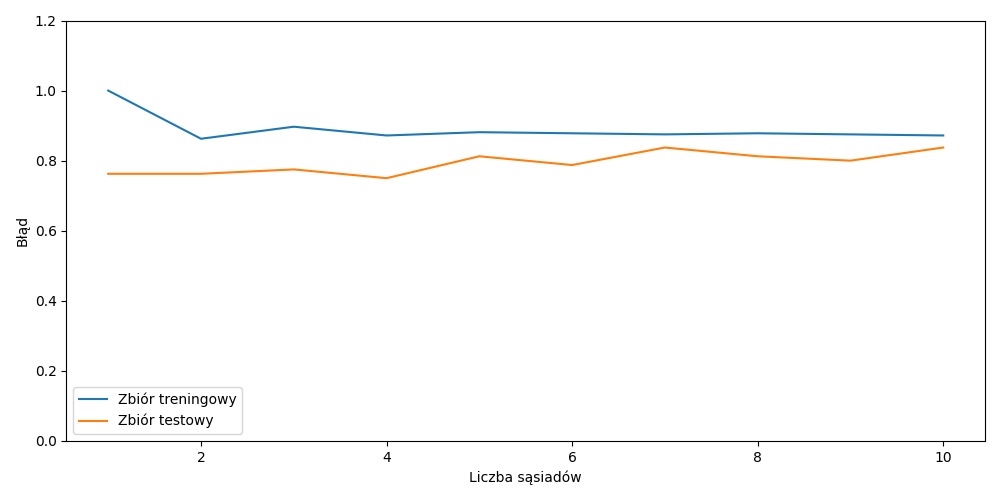
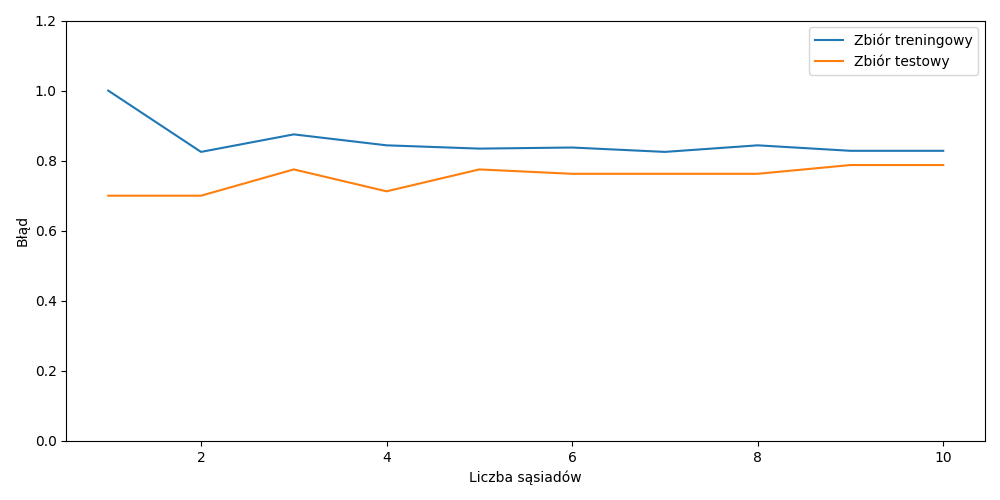
refactor code

diff --git a/tests/DecisionBoundaryTest.py b/tests/DecisionBoundaryTest.py
@@ -1,11 +1,9 @@
 import unittest
+import warnings
 import os, sys
-import numpy as np
-from sklearn.svm import SVC
 from sklearn.datasets import make_classification
 from sklearn.neighbors import KNeighborsClassifier
 from sklearn.datasets import load_iris
-import warnings
 sys.path.append('../ensemble')
 from Bagging import BaggingClassifier
 from RandomSubspaceEnsemble import RandomSubspaceEnsemble
@@ -13,10 +11,10 @@ from RandomSamplePartition import RandomSamplePartition
 sys.path.append('../analysis')
 from DecisionBoundary2 import DecisionBoundary
 
-"""Test e2e Decision Boundary class"""
-
 # Ignore warnings
 warnings.filterwarnings("ignore")
+
+"""Test e2e Decision Boundary class"""
 
 class Test(unittest.TestCase):
     def prepare(self):

diff --git a/helpers/TrainingvsValidationError.py b/helpers/TrainingvsValidationError.py
@@ -28,8 +28,8 @@ test_errors = []
 for n in n_neighbors:
     clf.set_params(n_neighbors=int(n))
     clf.fit(X_train, y_train)
-    train_errors.append(clf.score(X_train, y_train))
-    test_errors.append(clf.score(X_test, y_test))
+    train_errors.append(1-clf.score(X_train, y_train))
+    test_errors.append(1-clf.score(X_test, y_test))
 
 i_alpha_optim = np.argmax(test_errors)
 alpha_optim = n_neighbors[i_alpha_optim]
@@ -39,7 +39,7 @@ plt.subplots(1,1,figsize=(10,5))
 plt.plot(n_neighbors, train_errors, label="Zbiór treningowy")
 plt.plot(n_neighbors, test_errors, label="Zbiór testowy")
 
-plt.legend(loc="lower left")
+plt.legend(loc="upper right")
 plt.ylim([0, 1.2])
 plt.xlabel("Liczba sąsiadów")
 plt.ylabel("Błąd")

diff --git a/ensemble/Bagging.py b/ensemble/Bagging.py
@@ -3,7 +3,7 @@ from sklearn.ensemble import BaseEnsemble
 from sklearn.tree import DecisionTreeClassifier
 from sklearn.base import ClassifierMixin, clone 
 from sklearn.utils.validation import check_array, check_is_fitted, check_X_y
-from scipy.stats import mode 
+from scipy.stats import mode
 
 """Bagging Classifier"""
 
@@ -59,6 +59,6 @@ class BaggingClassifier(BaseEnsemble, ClassifierMixin):
     def ensemble_support_matrix(self, X):
         """Support matrix"""
         probas_ = []
-        for i, member_clf in enumerate(self.ensemble_):
+        for _, member_clf in enumerate(self.ensemble_):
             probas_.append(member_clf.predict_proba(X))
         return np.array(probas_)

diff --git a/evaluation/Evaluator.py b/evaluation/Evaluator.py
@@ -1,5 +1,6 @@
 import numpy as np
 import os, sys
+import warnings
 from sklearn.metrics import accuracy_score
 from sklearn.model_selection import RepeatedStratifiedKFold
 from sklearn.ensemble import BaggingClassifier as OBgg
@@ -30,6 +31,9 @@ class Evaluator():
         """
         Evaluation function
         """
+        # Ignore warnings
+        warnings.filterwarnings("ignore")
+        
         self.clfs = clfs
         rskf = rskf = RepeatedStratifiedKFold(n_splits=self.n_splits, n_repeats=self.n_repeats, random_state = self.random_state)
         self.scores = np.zeros((len(self.datasets), self.n_splits*self.n_repeats, len(self.clfs), len(self.metrics)))

diff --git a/tests/EvaluationTest.py b/tests/EvaluationTest.py
@@ -1,17 +1,18 @@
 import sys
+import warnings
 from strlearn.metrics import balanced_accuracy_score, recall
 from sklearn.neural_network import MLPClassifier
 sys.path.append('../ensemble')
-import warnings
 from Bagging import BaggingClassifier
 sys.path.append('../evaluation')
 from Evaluator import Evaluator
 from StatisticTest import StatisticTest
 
-"""Test e2e experiment evaluation"""
-
 # Ignore warnings
 warnings.filterwarnings("ignore")
+
+"""Test e2e experiment evaluation"""
+
 
 def main():
     # Classifiers
@@ -22,7 +23,7 @@ def main():
     }
 
     # Datasets
-    datasets = ['glass']
+    datasets = ['ecoli2']
 
     # Metrics
     metrics = {

diff --git a/tests/EnsembleTest.py b/tests/EnsembleTest.py
@@ -1,6 +1,6 @@
 import numpy as np
-import os, sys
 import warnings
+import os, sys
 from sklearn.naive_bayes import GaussianNB
 from sklearn.model_selection import RepeatedStratifiedKFold
 sys.path.append('../ensemble')
@@ -15,10 +15,10 @@ from ORSE import ORSE
 from ORSP import ORSP
 from sklearn.metrics import balanced_accuracy_score
 
-"""Test e2e Ensemble methods"""
-
 # Ignore warnings
 warnings.filterwarnings("ignore")
+
+"""Test e2e Ensemble methods"""
 
 # Classifiers
 clfs = {
@@ -34,7 +34,7 @@ clfs = {
 }
 
 # Datasets
-datasets = ['bupa']
+datasets = ['ecoli2']
 
 def main():
     n_splits = 2

diff --git a/tests/ImbalanceRatioTest.py b/tests/ImbalanceRatioTest.py
@@ -1,8 +1,12 @@
 import unittest
+import warnings
 import sys, os
 import warnings
 sys.path.append('../analysis')
 from ImbalanceRatio import IR
+
+# Ignore warnings
+warnings.filterwarnings("ignore")
 
 """Test e2e ImbalanceRatio class"""
 
@@ -10,7 +14,7 @@ from ImbalanceRatio import IR
 warnings.filterwarnings("ignore")
 class Test(unittest.TestCase):
     def teste2e(self):
-        obj = IR(['glass', 'appendicitis', 'balance', 'banana', 'bupa'])
+        obj = IR()
         obj.calculate()
         obj.tab(True)
         os.chdir('../latexTable')

diff --git a/evaluation/StatisticTest.py b/evaluation/StatisticTest.py
@@ -1,5 +1,6 @@
 from distutils.log import error
 import numpy as np
+import warnings
 import os
 from tabulate import tabulate
 from scipy.stats import ttest_ind
@@ -14,6 +15,10 @@ class StatisticTest():
 
     def process(self, table_name, alpha=0.05, m_fmt="%3f", std_fmt=None, nc="---", db_fmt="%s", tablefmt="plain"):
         """Process"""
+
+        # Ignore warnings
+        warnings.filterwarnings("ignore")
+
         try:
             # DATA X FOLD X CLASSIFIER X METRIC 
             scores = self.evaluator.scores

diff --git a/main/Experiment.py b/main/Experiment.py
@@ -1,4 +1,5 @@
 import sys
+import warnings
 from strlearn.metrics import balanced_accuracy_score, recall
 from sklearn.neighbors import KNeighborsClassifier
 from sklearn.naive_bayes import GaussianNB
@@ -20,6 +21,9 @@ from Evaluator import Evaluator
 from StatisticTest import StatisticTest
 
 """Experiment evaluation"""
+
+# Ignore warnings
+warnings.filterwarnings("ignore")
 
 N_ESTIMATORS = 5
 
